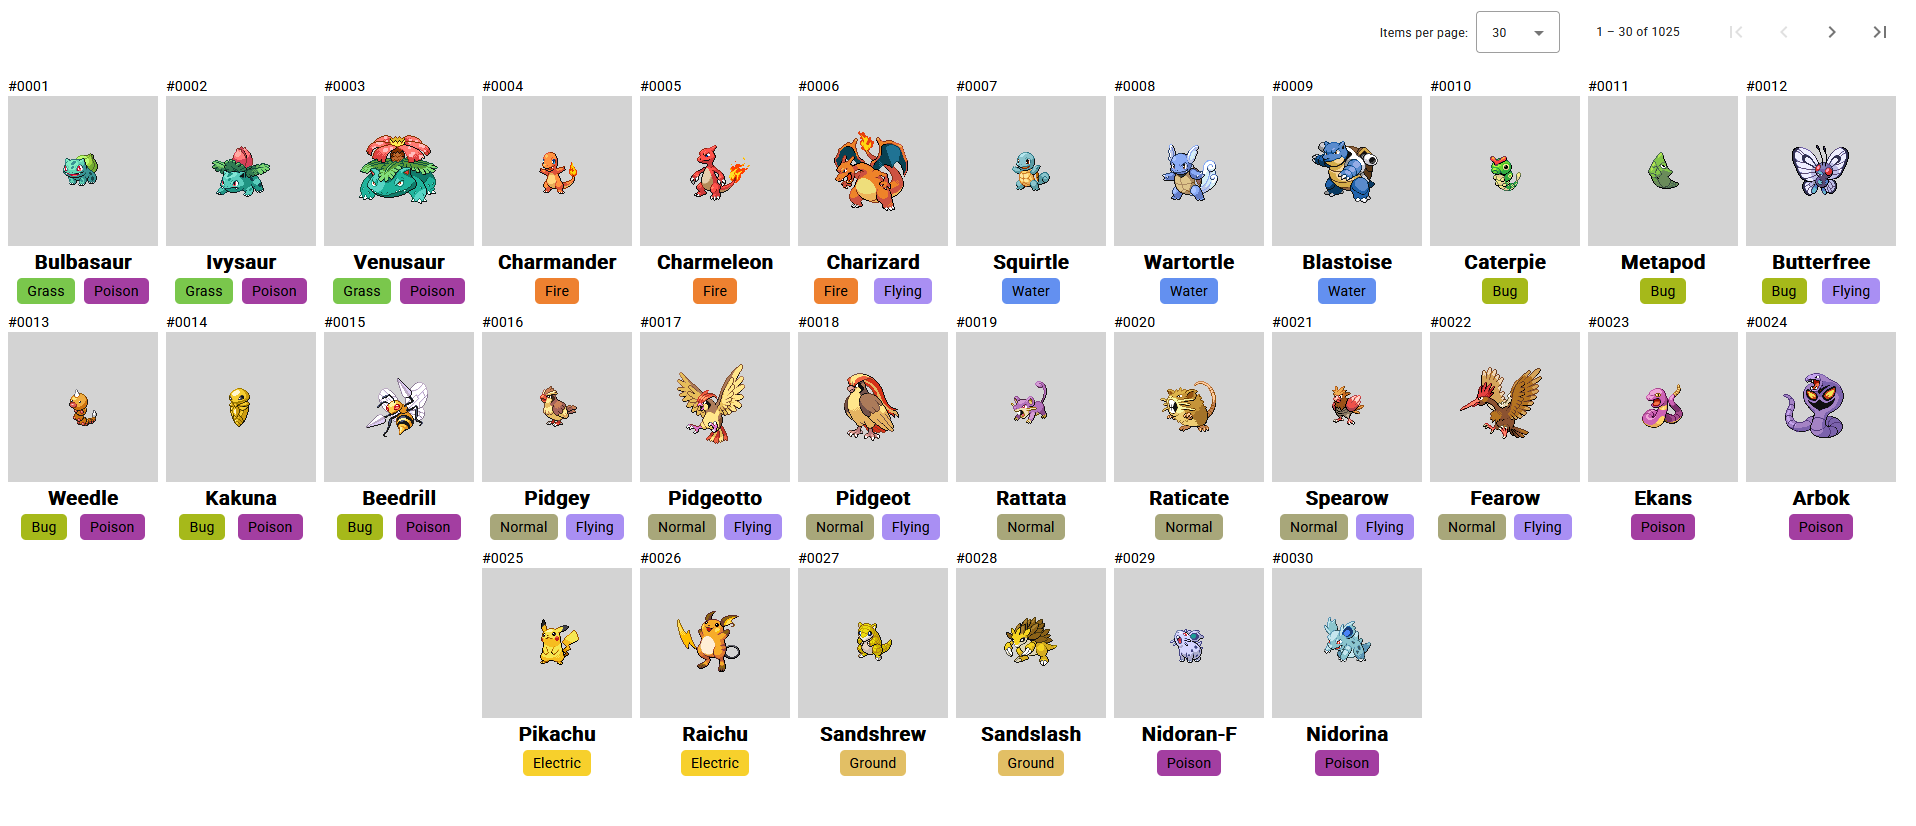
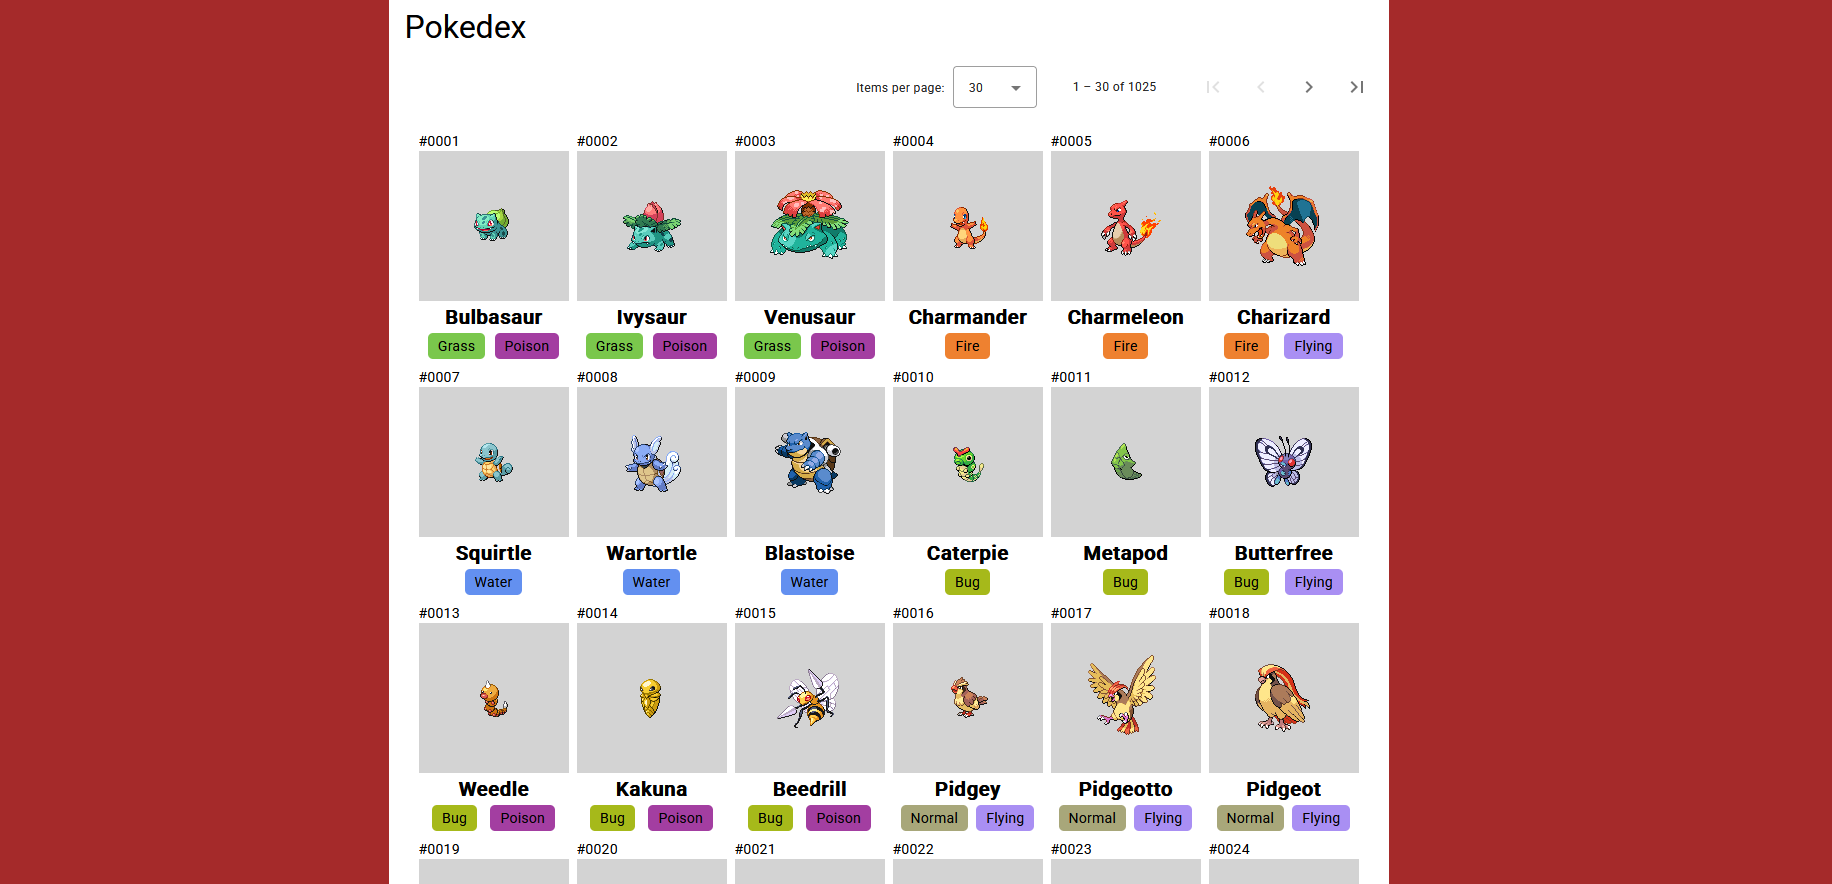
Add navbar + styling

diff --git a/src/app/components/navbar/navbar.component.spec.ts b/src/app/components/navbar/navbar.component.spec.ts
@@ -1,0 +1,23 @@
+import { ComponentFixture, TestBed } from '@angular/core/testing';
+
+import { NavbarComponent } from './navbar.component';
+
+describe('NavbarComponent', () => {
+  let component: NavbarComponent;
+  let fixture: ComponentFixture<NavbarComponent>;
+
+  beforeEach(async () => {
+    await TestBed.configureTestingModule({
+      imports: [NavbarComponent]
+    })
+    .compileComponents();
+    
+    fixture = TestBed.createComponent(NavbarComponent);
+    component = fixture.componentInstance;
+    fixture.detectChanges();
+  });
+
+  it('should create', () => {
+    expect(component).toBeTruthy();
+  });
+});

diff --git a/src/app/pages/pokedex/pokedex.component.html b/src/app/pages/pokedex/pokedex.component.html
@@ -1,5 +1,7 @@
-<div *ngIf="allDataFetched">
-  <h1>Pokedex</h1>
+<div class="main-content">
+  <div class="title">
+    <h1>Pokedex</h1>
+  </div>
   <mat-paginator
     [pageIndex]="currentPage"
     [length]="totalItems"
@@ -8,7 +10,7 @@
     [pageSizeOptions]="pageSizeOptions"
     (page)="onPageChange($event)"
   ></mat-paginator>
-  <ul>
+  <ul *ngIf="allDataFetched">
     <li *ngFor="let pokemon of currentPokemonToShow">
       <app-pokemon-box [pokemon]="pokemon.pokemon"></app-pokemon-box>
     </li>

diff --git a/src/app/app.component.ts b/src/app/app.component.ts
@@ -1,10 +1,11 @@
 import { Component, inject } from '@angular/core';
 import { RouterOutlet } from '@angular/router';
+import { NavbarComponent } from './components/navbar/navbar.component';
 
 @Component({
   selector: 'app-root',
   standalone: true,
-  imports: [RouterOutlet],
+  imports: [RouterOutlet, NavbarComponent],
   templateUrl: './app.component.html',
   styleUrl: './app.component.css'
 })

diff --git a/src/app/components/navbar/navbar.component.css b/src/app/components/navbar/navbar.component.css
@@ -1,0 +1,22 @@
+nav {
+    background-color: white;
+    width: 100%;
+    position: sticky;
+    top: 0;
+    z-index: 1;
+}
+
+nav ul{
+    display: flex;
+    justify-content: center;
+}
+
+nav ul li {
+    text-align: center;
+    font-size: 1.5rem;
+}
+
+nav ul li a {
+    display: block;
+    padding: 1rem;
+}

diff --git a/src/styles.css b/src/styles.css
@@ -17,6 +17,7 @@
     --dark: #705746;
     --steel: #B7B7CE;
     --fairy: #D685AD;
+    --navbar-height: 52px;
 }
 
 * {
@@ -40,6 +41,10 @@ img {
 
 p, h1, h2, h3, h4, h5, h6 {
     margin: 0 !important;
+}
+
+body {
+    background-color: brown;
 }
 
 /* Types color */

diff --git a/src/app/components/navbar/navbar.component.ts b/src/app/components/navbar/navbar.component.ts
@@ -1,0 +1,12 @@
+import { Component } from '@angular/core';
+
+@Component({
+  selector: 'app-navbar',
+  standalone: true,
+  imports: [],
+  templateUrl: './navbar.component.html',
+  styleUrl: './navbar.component.css'
+})
+export class NavbarComponent {
+
+}

diff --git a/src/app/app.component.css b/src/app/app.component.css
@@ -1,0 +1,6 @@
+main {
+    max-width: 1000px;
+    margin: 0 auto;
+    background-color: white;
+    min-height: calc(100vh - var(--navbar-height));
+}

diff --git a/src/app/pages/pokedex/pokedex.component.css b/src/app/pages/pokedex/pokedex.component.css
@@ -1,3 +1,11 @@
+.title {
+    padding: 1rem;
+}
+
+h1 {
+    font-size: 2rem;
+}
+
 ul {
     display: flex;
     flex-wrap: wrap;

diff --git a/src/app/app.component.html b/src/app/app.component.html
@@ -1,3 +1,4 @@
+<app-navbar></app-navbar>
 <main>
   <router-outlet></router-outlet>
 </main>

diff --git a/src/app/components/navbar/navbar.component.html b/src/app/components/navbar/navbar.component.html
@@ -1,0 +1,6 @@
+<nav>
+    <ul>
+        <li><a href="">Pokedex</a></li>
+    </ul>
+</nav>
+
